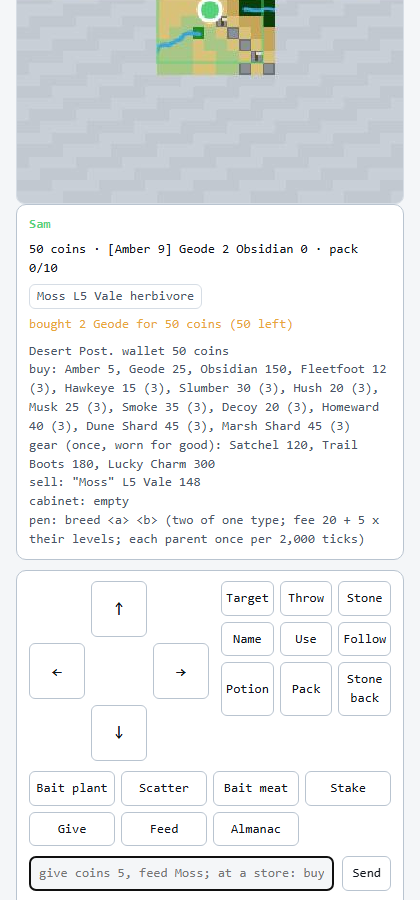
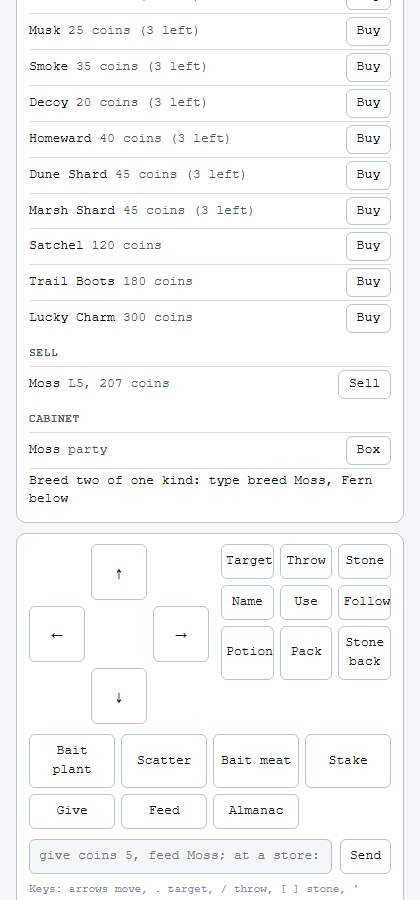
Ketch'em the guest's screen: the three sounds for what the guest sees, and a store of buttons
The synthesis moves to src/ketchem/synth.js (no imports), which the guest link serves; the host queues the remote
guest's sounds each tick with a per-page epoch; the guest page draws the store as rows of Buy / Sell / Box / Take.

diff --git a/src/main.js b/src/main.js
@@ -28,7 +28,7 @@ import { drawKetchemGround, drawFog, drawPlayers } from './ketchem/render.js';
 import { isRevealed } from './ketchem/fog.js';
 import { newPlayer, tryStep, strideStep, interact } from './ketchem/controls.js';
 import { initEncounters, initPlayer, encounterTick, targetsNear, throwStone, placeBait, pickPlant, nameCatch, freeName, freeSpeciesName, follow, recall, drainNews, news as pushNews } from './ketchem/encounter.js';
-import { initStores, marketTick, storeAt, shopLists, shopText, creatureCard, buy as buyItem, sell as sellItem, box as boxItem, giveSaid, usePotion, almanacLists, almanacText, packSummary, POTIONS } from './ketchem/market.js';
+import { initStores, marketTick, storeAt, shopLists, creatureCard, buy as buyItem, sell as sellItem, box as boxItem, giveSaid, usePotion, almanacLists, almanacText, packSummary, POTIONS } from './ketchem/market.js';
 import { storePanel, almanacPanel, closePanel, panelOpen, panelMode } from './ketchem/panel.js';
 import { hudTick } from './ketchem/hud.js';
 import { ask, asking, closeAsk, askWho, answerAsk } from './ketchem/ask.js';
@@ -36,7 +36,7 @@ import { padPressed, padEdges, padKey, padArrowUp, PAD_PICK, START as PAD_START 
 import { guestSeated, seatName, seatGuest, unseatGuest } from './ketchem/guest.js';
 import { linkAvailable, linkOpen, openLink, closeLink, askRemote, dropQuestions, guestAddress, linkCode as linkCodeNow } from './ketchem/link.js';
 import { setRemoteOk } from './ketchem/hud.js';
-import { toggleSound } from './ketchem/sound.js';
+import { toggleSound, soundsDue } from './ketchem/sound.js';
 import { growthTick, catchXP, feedSaid, eventsText, breed as breedPair } from './ketchem/growth.js';
 import { drawEncounters } from './ketchem/render.js';
 import { buildSave, applySave, exportSave, importSave, putSlot, getSlot, deleteSlot, listSlots, addToRecordCabinet, SAVE_VERSION } from './ketchem/save.js';
@@ -980,7 +980,7 @@ function padDown(i,fromLink){   // fromLink: the press came from a pad on the gu
 window.addEventListener('gamepadconnected',function(){if(!_padTimer)_padTimer=setInterval(padTick,50);});
 
 // ===== The guest link (mechanics 26): what a guest on another screen sees, and what their input does =====
-var _guestRemote=false,_linkFrame=null;
+var _guestRemote=false,_linkFrame=null,_gSoundDone=new WeakSet(),_gSounds=[],_gSoundId=0,_gSoundEpoch=Math.random().toString(36).slice(2,10);   // the remote guest's sounds: each effect once, numbered so their page plays only new ones; the epoch names this page, so a reload never confuses the numbers
 function guestFrame(){   // their corner of the world: 33 x 33 tiles around them, from the drawn canvas (fog and all)
   if(!guestSeated(K))return null;var g=K.root,R=16,side=2*R+1;
   if(!_linkFrame)_linkFrame=document.createElement('canvas');var c=_linkFrame;c.width=c.height=400;var x=c.getContext('2d');
@@ -991,7 +991,23 @@ function guestFrame(){   // their corner of the world: 33 x 33 tiles around them
 function guestState(){
   if(!guestSeated(K))return {name:null};var g=K.root,ps=packSummary(g);
   return {name:g.display,wallet:g.wallet,stones:g.stones,stone:g.stone,pack:ps.used+'/'+ps.cap,party:g.party.map(function(c){var k=creatureCard(c);return k.name+' L'+k.level+' '+k.elemental+' '+k.type;}),
-    msg:g.msg&&g.msgUntil>Date.now()?g.msg:'',shop:storeAt(K,g)?shopText(K,g):'',almanac:_gAlmanac?almanacText(K,g):''};
+    msg:g.msg&&g.msgUntil>Date.now()?g.msg:'',store:guestStore(g),sounds:_gSounds,soundEpoch:_gSoundEpoch,almanac:_gAlmanac?almanacText(K,g):''};
+}
+// What a guest on another screen hears: the sounds in their sight, checked every tick (a sound's window is a few ticks;
+// the link only posts five times a second), kept as the last eight with rising numbers.
+function queueGuestSounds(){
+  if(!K||!guestSeated(K)||!K.root.remote)return;
+  var due=soundsDue(K,[K.root],_gSoundDone);for(var i=0;i<due.length;i++)_gSounds.push({id:++_gSoundId,name:due[i]});
+  if(_gSounds.length>8)_gSounds.splice(0,_gSounds.length-8);
+}
+// The store as lists for the guest's buttons (each button sends one of the store commands); null off a store.
+function guestStore(g){
+  var s=storeAt(K,g);if(!s)return null;var L=shopLists(K,g,s),mine=g.party.concat(K.cabinet),nm=function(c){var x=mine.find(function(y){return y.id===c.id;});return !!(x&&x.name);};   // an unnamed one gets no button
+  return {name:L.store,wallet:L.wallet,
+    buy:L.buy.map(function(b){return {item:b.item,price:b.price,left:b.left===Infinity?null:b.left,gear:!!b.gear,owned:!!b.owned};}),
+    sell:L.sell.map(function(c){return {name:c.name,named:nm(c),level:c.level,price:c.price,where:c.where};}),
+    plants:L.plants.length,plantsWorth:L.plants.reduce(function(a,x){return a+x.price;},0),
+    party:L.party.map(function(c){return {name:c.name,named:nm(c)};}),box:L.box.map(function(c){return {name:c.name,named:nm(c)};})};
 }
 function guestCommand(text){   // from another screen: give X [n] and feed X[, Y] anywhere; buy X [n], sell X, box X, take X, breed X, Y at a store
   var g=K.root,m=/^(buy|sell|box|take|breed|give|feed)\s+(.+)$/i.exec(String(text||'').trim());
@@ -1574,7 +1590,7 @@ function kevinHeld(){
 }
 function kevinNews(){if(!K)return;var n=drainNews(K,'kevin');if(n.length)kevinSay(n[n.length-1]);}
 function growthNews(){var ev=growthTick(K);for(var i=0;i<ev.length;i++){var e=ev[i],owner=(K.kevin&&K.kevin.party.indexOf(e.creature)>=0)?'kevin':((K.root&&K.root.id)||'root');var line=(e.creature.name||e.creature.type)+(e.kind==='grow'?' reaches growth level '+e.level:' EVOLVED from '+e.from+' into '+e.to+(e.named?'':(owner==='kevin'?': name the species (N)':guestSeated(K)?": name the species (')":': name the species (name)')));if(owner==='kevin')kevinSay(line);else pushNews(K,owner,line);}}
-function loop(){try{if(running){step();if(K){encounterTick(K);marketTick(K);growthNews();kevinNews();if(K.kevin.moved){K.kevin.moved=false;_kCamAt=null;}if(guestSeated(K)){var gn=drainNews(K,K.root.id);if(gn.length)guestSay(gn[gn.length-1]);if(K.root.moved){K.root.moved=false;guestMoved();}}}visitTick();kevinHeld();guestHeld();kevinAutosave();draw();}}catch(e){var err=document.getElementById('err');if(err){err.style.display='block';err.textContent='Loop error: '+e.message+'\n'+(e.stack||'');}running=false;}var delay=Math.max(10,CFG.tickMsBase*(12/Math.max(1,speed)));if(loopTimer)clearTimeout(loopTimer);loopTimer=setTimeout(loop,delay);}
+function loop(){try{if(running){step();if(K){encounterTick(K);marketTick(K);growthNews();kevinNews();if(K.kevin.moved){K.kevin.moved=false;_kCamAt=null;}if(guestSeated(K)){var gn=drainNews(K,K.root.id);if(gn.length)guestSay(gn[gn.length-1]);if(K.root.moved){K.root.moved=false;guestMoved();}}}visitTick();kevinHeld();guestHeld();queueGuestSounds();kevinAutosave();draw();}}catch(e){var err=document.getElementById('err');if(err){err.style.display='block';err.textContent='Loop error: '+e.message+'\n'+(e.stack||'');}running=false;}var delay=Math.max(10,CFG.tickMsBase*(12/Math.max(1,speed)));if(loopTimer)clearTimeout(loopTimer);loopTimer=setTimeout(loop,delay);}
 
 // ===== Tests =====
 function runTests(){

diff --git a/src/ketchem/sound.js b/src/ketchem/sound.js
@@ -1,12 +1,14 @@
 // Ketch'em's three sounds (mechanics 9b: "a single short click, burst and growl sample would be enough"): synthesised
 // with WebAudio, no files. The click is a catch, the burst a stone breaking free, the growl a predator's warning. They
 // follow the effects list the canvas already draws (K.fx), each at the moment the animation shows it, and only for
-// what is in Kevin's sight square. O or the HUD chip turns sound on and off; the choice is kept per browser.
+// what is in the sight square of someone at this screen (Kevin, and a guest at the same keyboard or pad); a guest on
+// another screen hears their own (soundsDue, sent through the link). O or the HUD chip turns sound on and off here.
 // Loads without a window (tests): every entry point is a no-op there.
 import { tick } from '../sim.js';
+import { audio, SOUNDS } from './synth.js';
 
 const KEY = 'ketchem.sound';
-let on = true, ctx = null;
+let on = true;
 try { if (typeof localStorage !== 'undefined' && localStorage.getItem(KEY) === 'off') on = false; } catch { /* storage blocked: default on */ }
 export function soundOn() { return on; }
 export function toggleSound() {
@@ -15,69 +17,51 @@ export function toggleSound() {
   return on;
 }
 
-function audio() {
-  if (typeof window === 'undefined' || !(window.AudioContext || window.webkitAudioContext)) return null;
-  if (!ctx) { try { ctx = new (window.AudioContext || window.webkitAudioContext)(); } catch { return null; } }
-  if (ctx.state === 'suspended') { ctx.resume().catch(() => {}); return null; }   // no gesture yet: skip, rather than queue sounds to play all at once on the first key
-  return ctx;
-}
-const VOL = 0.14;
-function env(c, g, at, peak, len) { g.gain.setValueAtTime(0.0001, at); g.gain.exponentialRampToValueAtTime(peak, at + 0.008); g.gain.exponentialRampToValueAtTime(0.0001, at + len); }
-// A catch: two bright blips, the stone shutting and a sparkle.
-function click(c) {
-  const t = c.currentTime;
-  for (const [f, d] of [[1250, 0], [1900, 0.06]]) {
-    const o = c.createOscillator(), g = c.createGain(); o.type = 'square'; o.frequency.value = f; env(c, g, t + d, VOL * 0.5, 0.06);
-    o.connect(g).connect(c.destination); o.start(t + d); o.stop(t + d + 0.08);
-  }
-}
-// A stone breaking free: a short noise burst falling through a low-pass.
-function burst(c) {
-  const t = c.currentTime, n = Math.floor(c.sampleRate * 0.2), b = c.createBuffer(1, n, c.sampleRate), d = b.getChannelData(0);
-  for (let i = 0; i < n; i++) d[i] = (Math.random() * 2 - 1) * (1 - i / n);
-  const s = c.createBufferSource(), f = c.createBiquadFilter(), g = c.createGain();
-  s.buffer = b; f.type = 'lowpass'; f.frequency.setValueAtTime(2400, t); f.frequency.exponentialRampToValueAtTime(300, t + 0.2); env(c, g, t, VOL, 0.2);
-  s.connect(f).connect(g).connect(c.destination); s.start(t);
-}
-// A predator's warning: a low sawtooth with a slow wobble, under half a second.
-function growl(c) {
-  const t = c.currentTime, o = c.createOscillator(), lfo = c.createOscillator(), lg = c.createGain(), f = c.createBiquadFilter(), g = c.createGain();
-  o.type = 'sawtooth'; o.frequency.setValueAtTime(95, t); o.frequency.linearRampToValueAtTime(75, t + 0.45);
-  lfo.frequency.value = 18; lg.gain.value = 12; lfo.connect(lg).connect(o.frequency);
-  f.type = 'lowpass'; f.frequency.value = 420; env(c, g, t, VOL * 1.2, 0.45);
-  o.connect(f).connect(g).connect(c.destination); o.start(t); lfo.start(t); o.stop(t + 0.5); lfo.stop(t + 0.5);
-}
-export const SOUNDS = { click, burst, growl };
+export { SOUNDS };
 
 // Each effect sounds once (WeakSet), at its moment: a throw's click or burst when the wobbles end (9b), a growl with
 // each warning pulse.
 const done = new WeakSet();
-// Kevin's sight square (controls.js: 4, or 5 under Hawkeye): what he can see, he can hear.
-function inSight(K, x, y) {
-  const p = K.kevin; if (!p || !Number.isFinite(x) || !Number.isFinite(y)) return false;
+// A player's sight square (controls.js: 4, or 5 under Hawkeye): what they can see, they can hear.
+function inSight(K, x, y, p = K.kevin) {
+  if (!p || !Number.isFinite(x) || !Number.isFinite(y)) return false;
   const h = (p.effects || []).some(e => e.potion === 'Hawkeye' && e.until > tick) ? 5 : 4;
   return Math.abs(x - p.x) <= h && Math.abs(y - p.y) <= h;
 }
 // What one effect sounds like at t ticks after it started: 'wait' (not yet), null (silent: done, out of sight, or long
 // past after a load or a pause), or the sound's name. Pure, so the timing is testable.
-export function soundFor(K, e, t) {
+export function soundFor(K, e, t, p = K.kevin) {
   if (e.kind === 'throw') {
     const at = 12 + (e.wobbles || 0) * 10;   // throw 8 + pull-in 4 + the wobbles (9b): the click or the burst
     if (t < at) return 'wait';
-    if (t > at + 12 || !e.to || !inSight(K, e.to.x, e.to.y)) return null;
+    if (t > at + 12 || !e.to || !inSight(K, e.to.x, e.to.y, p)) return null;
     return e.caught ? 'click' : 'burst';
   }
-  if (e.kind === 'pulse') return t > 6 || !inSight(K, e.x, e.y) ? null : 'growl';   // each warning pulse (11.2: a sound plus a small red ripple)
+  if (e.kind === 'pulse') return t > 6 || !inSight(K, e.x, e.y, p) ? null : 'growl';   // each warning pulse (11.2: a sound plus a small red ripple)
   return null;
+}
+// The sounds now due for these listeners, each effect once per done-set: 'wait' keeps an effect for a later look; the
+// first listener who can hear it decides. Pure over K apart from the done-set.
+export function soundsDue(K, listeners, doneSet) {
+  const out = [];
+  if (!K || !K.fx) return out;
+  for (const e of K.fx) {
+    if (doneSet.has(e)) continue;
+    let name = null, wait = false;
+    for (const p of listeners) { const n = soundFor(K, e, tick - e.start, p); if (n === 'wait') { wait = true; break; } if (n) { name = n; break; } }
+    if (wait) continue;
+    doneSet.add(e);
+    if (name) out.push(name);
+  }
+  return out;
+}
+// This screen's listeners: Kevin, and a guest playing here rather than from another screen.
+export function screenListeners(K) {
+  const g = K && K.root && K.root.human && !K.root.away && !K.root.remote ? K.root : null;
+  return [K.kevin, g].filter(Boolean);
 }
 export function soundTick(K) {
   if (!K || !K.fx || !on) return;
   let c = null;
-  for (const e of K.fx) {
-    if (done.has(e)) continue;
-    const name = soundFor(K, e, tick - e.start);
-    if (name === 'wait') continue;
-    done.add(e);
-    if (name && (c = c || audio())) SOUNDS[name](c);
-  }
+  for (const name of soundsDue(K, screenListeners(K), done)) if ((c = c || audio())) SOUNDS[name](c);
 }

diff --git a/src/ketchem/synth.js b/src/ketchem/synth.js
@@ -1,0 +1,39 @@
+// Ketch'em's three sounds as WebAudio synthesis, no files and no imports, so the guest link can serve this module to a
+// guest's page as it is (visit/guest-link.mjs, /synth.js) and both screens sound alike. The click is a catch, the burst
+// a stone breaking free, the growl a predator's warning. Loads without a window (tests): audio() is null there.
+let ctx = null;
+export function audio() {
+  if (typeof window === 'undefined' || !(window.AudioContext || window.webkitAudioContext)) return null;
+  if (!ctx) { try { ctx = new (window.AudioContext || window.webkitAudioContext)(); } catch { return null; } }
+  if (ctx.state === 'suspended') { ctx.resume().catch(() => {}); return null; }   // no gesture yet: skip, rather than queue sounds to play all at once on the first key
+  return ctx;
+}
+const VOL = 0.14;
+function env(c, g, at, peak, len) { g.gain.setValueAtTime(0.0001, at); g.gain.exponentialRampToValueAtTime(peak, at + 0.008); g.gain.exponentialRampToValueAtTime(0.0001, at + len); }
+// A catch: two bright blips, the stone shutting and a sparkle.
+function click(c) {
+  const t = c.currentTime;
+  for (const [f, d] of [[1250, 0], [1900, 0.06]]) {
+    const o = c.createOscillator(), g = c.createGain(); o.type = 'square'; o.frequency.value = f; env(c, g, t + d, VOL * 0.5, 0.06);
+    o.connect(g).connect(c.destination); o.start(t + d); o.stop(t + d + 0.08);
+  }
+}
+// A stone breaking free: a short noise burst falling through a low-pass.
+function burst(c) {
+  const t = c.currentTime, n = Math.floor(c.sampleRate * 0.2), b = c.createBuffer(1, n, c.sampleRate), d = b.getChannelData(0);
+  for (let i = 0; i < n; i++) d[i] = (Math.random() * 2 - 1) * (1 - i / n);
+  const s = c.createBufferSource(), f = c.createBiquadFilter(), g = c.createGain();
+  s.buffer = b; f.type = 'lowpass'; f.frequency.setValueAtTime(2400, t); f.frequency.exponentialRampToValueAtTime(300, t + 0.2); env(c, g, t, VOL, 0.2);
+  s.connect(f).connect(g).connect(c.destination); s.start(t);
+}
+// A predator's warning: a low sawtooth with a slow wobble, under half a second.
+function growl(c) {
+  const t = c.currentTime, o = c.createOscillator(), lfo = c.createOscillator(), lg = c.createGain(), f = c.createBiquadFilter(), g = c.createGain();
+  o.type = 'sawtooth'; o.frequency.setValueAtTime(95, t); o.frequency.linearRampToValueAtTime(75, t + 0.45);
+  lfo.frequency.value = 18; lg.gain.value = 12; lfo.connect(lg).connect(o.frequency);
+  f.type = 'lowpass'; f.frequency.value = 420; env(c, g, t, VOL * 1.2, 0.45);
+  o.connect(f).connect(g).connect(c.destination); o.start(t); lfo.start(t); o.stop(t + 0.5); lfo.stop(t + 0.5);
+}
+export const SOUNDS = { click, burst, growl };
+// Play one by name; a name it does not know, or no audio yet, is silence.
+export function play(name) { const c = Object.hasOwn(SOUNDS, name) ? audio() : null; if (c) SOUNDS[name](c); }

diff --git a/src/ketchem/guest.test.js b/src/ketchem/guest.test.js
@@ -9,6 +9,7 @@ const E = await import('./encounter.js');
 const M = await import('./market.js');
 const Gst = await import('./guest.js');
 const Gr = await import('./growth.js');
+const Snd = await import('./sound.js');
 
 const at = (x, y) => sim.idx(x, y);
 function world() {
@@ -100,6 +101,28 @@ describe('the guest link leaves nothing behind (critic 2026-10-27)', () => {
     const K = world(); Gst.seatGuest(K, false, 'Sam'); K.root.remote = '482913';
     Gst.unseatGuest(K); expect(K.guestStash.remote).toBeUndefined();
     Gst.seatGuest(K, false, 'Sam'); expect(K.root.remote).toBeUndefined();
+  });
+});
+
+describe('what a guest hears (25, 26)', () => {
+  it('a growl in the guest\'s sight sounds for them once, and not for Kevin far away', () => {
+    const K = world(); Gst.seatGuest(K, false, 'Sam'); const g = K.root; g.x = 20; g.y = 20; K.kevin.x = 3; K.kevin.y = 3;
+    K.fx = [{ kind: 'pulse', x: 21, y: 20, start: sim.tick }];
+    expect(Snd.soundsDue(K, [K.kevin], new WeakSet())).toEqual([]);
+    const done = new WeakSet();
+    expect(Snd.soundsDue(K, [g], done)).toEqual(['growl']); expect(Snd.soundsDue(K, [g], done)).toEqual([]);
+  });
+  it('this screen hears for Kevin and a guest playing here, not for a guest on another screen', () => {
+    const K = world(); Gst.seatGuest(K, false, 'Sam');
+    expect(Snd.screenListeners(K)).toEqual([K.kevin, K.root]);
+    K.root.remote = '123456'; expect(Snd.screenListeners(K)).toEqual([K.kevin]);
+  });
+  it('a throw waits for its wobbles before it sounds', () => {
+    const K = world(); Gst.seatGuest(K, false, 'Sam'); const g = K.root; g.x = 20; g.y = 20;
+    K.fx = [{ kind: 'throw', to: { x: 21, y: 20 }, wobbles: 3, caught: true, start: sim.tick }];
+    const done = new WeakSet();
+    expect(Snd.soundsDue(K, [g], done)).toEqual([]);   // still in the air: kept for a later look
+    K.fx[0].start = sim.tick - 42; expect(Snd.soundsDue(K, [g], done)).toEqual(['click']);
   });
 });
 

diff --git a/visit/guest-link.test.js b/visit/guest-link.test.js
@@ -29,6 +29,11 @@ describe('the guest link', () => {
     const js = await r.text(); expect(js).toContain('export function padKey'); expect(js).not.toMatch(/^import /m);
     expect(await (await fetch(guest + '/')).text()).toContain("from '/pad.js'");
   });
+  it('serves the game\'s sounds to the guest page too', async () => {
+    const js = await (await fetch(guest + '/synth.js')).text();
+    expect(js).toContain('export function play'); expect(js).not.toMatch(/^import /m);
+    expect(await (await fetch(guest + '/')).text()).toContain("from '/synth.js'");
+  });
   it('the guest port has no host side', async () => {
     expect((await jpost(guest, '/host/open', { code: '123456' })).status).toBe(404);
   });

diff --git a/docs/04 Handoffs/2026-10-24 Ketch'em build handoff.md b/docs/04 Handoffs/2026-10-24 Ketch'em build handoff.md
@@ -101,6 +101,8 @@ public site, trading between saves.
   Critic (Sonnet): growl missing from oddsOf (fixed), hash contradicted 5.2 (fixed as above), fallbacks for missing maxAge / maxEnergy now mirror visit.js creatureCode, table lookups guarded with Object.hasOwn. For later steps: `oddsOf` answers for a fled creature too; the encounter machine must refuse the throw.
 - 2026-10-24 · step 3 (`src/ketchem/board.js` + `fog.js` + `render.js` + `board.worker.js`, two `drawWorld` hooks, `?ketchem=` boot path and `window.__wb.ketchem` in main.js, `scripts/ketchem-boards.mjs`; sim: `landCoverage` cached per genesis loop and `computeAridity` / `computeWaterDist` on index queues, byte-identical by fingerprint and by the harness; `seedLifeAt` and Root's `plant` refuse road tiles; flora cleared off roads and around stores at build) · gate GREEN (typecheck, lint 0 errors, full suite incl. 16 board tests, build) · harness = C2 baseline exactly · budget: continent mean 13.2 s / worst 19.3 s (10 seeds), archipelago at 45-60% land mean 11.4 s / worst 23.5 s under load (20 seeds, **9 island-store boards** by the sea-only metric), highlands mean 14.7 s (10 seeds; standalone 95% land 17-19 s): live generation, no pre-baked boards · **changed default for the owner: Archipelago land 45-60%, not 60-75%** (mechanics 15.1 note) · screenshots in `docs/04 Handoffs/img/2026-10-24-ketchem-step3/` · commit: see git log
   Spec readings recorded in the mechanics file (14.3-14.6, 15.1, 15.2, 16). Caught by the tests before shipping: a per-branch signpost search leaked diagonally into the next branch (8-connected roads), and a store revealed by the road rule counted as a road sighting for the next store, cascading reveals across the map. Open for step 4: the Hand is still on under fog; the fog is shared but nothing moves yet; store names are `<Biome> <Post>` with Post rotating by store index; signposts at a doorstep with only spurs beyond read empty (tooltip says "no stores this way").
+- 2026-10-27 · the guest's screen: sound and a store of buttons (mechanics 26; `src/ketchem/synth.js`) · gate GREEN (288/288, lint 0 errors, build) · rehearse15 37/37, rehearse16 21/21, rehearse14 35/35, adversary 0, fuzz seed 211 clean · not deployed · commit: see git log
+  Critic (Sonnet), 0 blockers + 6 risks (sounds at speed, stale sounds, lost taps, look-alike buttons, touch audio, dead state), all taken.
 - 2026-10-27 · saves, the rest of 18.2 (Root's save / save as, autosave when Root leaves, the mirror delete, never-overwrite naming) · gate GREEN (284/284, lint 0 errors, build) · rehearse17 11/11 on a scratch relay · not deployed · commit: see git log
   Critic (Sonnet), 0 blockers + 2 risks (rename before a failed write; case-blind, browser-only uniqueness vs Windows mirror files) + nits, all taken.
 - 2026-10-27 · the gamepad finished (a pad on the guest's own screen through the link, species names and every potion from a pad; mechanics 25.1, 26) · gate GREEN (284/284, lint 0 errors, build) · rehearse15 31/31, rehearse16 21/21, rehearse14 35/35, adversary 0, fuzz seed 197 clean · not deployed · commit: see git log

diff --git a/docs/02 Code/CodeMap.md b/docs/02 Code/CodeMap.md
@@ -2,6 +2,8 @@
 
 > 2026-10-25: Ketch'em step 9, the pen. In `growth.js`: `breedFee`, `offspringGenome` (midpoints with drift from `K.rng`, means, one parent's colour, vivid odds, gen + 1, the first parent's lineage), `breed(K, p, aName, bName)` (store tile, one kind, cooldown `bredAt`, the fee, `makeFauna` with the genome, into the cabinet, `p.naming`, the `bred` variant, a `bred` effect). `market.js` `shopLists` adds `pen` and `fee`; `panel.js` has the PEN tab (two checkboxes, the fee, Breed). `main.js` `acts.breed`; `src/visit.js` `breed` verb; `visit/modes.mjs` lists it. Test in `growth.test.js`.
 
+> 2026-10-27: Ketch'em the guest's screen (mechanics 26). `src/ketchem/synth.js` (no imports): `audio`, `SOUNDS`, `play(name)`. `sound.js`: imports synth; `soundFor(K, e, t, p)`, `soundsDue(K, listeners, doneSet)`, `screenListeners(K)` (Kevin + a guest at this screen); `soundTick` uses both. `main.js`: `queueGuestSounds()` each loop tick (remote guest, own WeakSet, last eight numbered), `_gSoundEpoch`; `guestState` sends `store: guestStore(g)` (lists with `named`), `sounds`, `soundEpoch` (the shop text is gone). `visit/guest-link.mjs`: serves `/synth.js`; the page's `#snd` switch, `hearSounds(state)` / `resetSounds`, `drawStore` (rows keyed by label / button / command, numbers updated in place). Tests `guest.test.js` +3, `guest-link.test.js` +1.
+
 > 2026-10-27: Ketch'em saves, the rest of 18.2. `visit/modes.mjs`: the ketchem `save` tool (`as`); `visit/briefs/ketchem.md` a saves line. `src/visit.js`: case 'save' -> `hooks.ketchem.save(as)`; `depart` saves a named board after a Ketch'em visit; `mirrorSlots()` (GET /page/slots), `mirrorDelete(slot)`. `visit/relay.mjs`: POST /page/save/delete (slotFile-checked, stale-checked). `main.js`: `rootSave(as)` (refuses an unnamed plain save, a taken name, a save in flight; restores the name on a failed write), `slotTaken(n, mine)` (IndexedDB + mirror, case-blind), `slotName` adds " game" to Windows' reserved names, Kevin's first save checks the name, F9 delete calls `mirrorDelete`. Tests `visit.test.js` +1 expectation; `scripts/rehearsals/rehearse17.mjs`.
 
 > 2026-10-27: Ketch'em the gamepad finished (mechanics 25.1). `pad.js`: `padKey` ctx.page (RB pages the potion list). `encounter.js`: `freeSpeciesName(K, type)`. `main.js`: `potionList(g, pad, page)`, `_gPotionPage`, `padDown(i, fromLink)` (a pad on the guest's own screen arrives as keys `pad<N>` through `linkHooks.input`; this machine's pad drives only a local guest), `padLetGo`; two-digit potions only with `pad:true`. `visit/guest-link.mjs` now reads `src/ketchem/pad.js` at start and serves it at `/pad.js` (public, before the code check); the page's module script polls its own pad, A / B answer its question box; `flush` drops events after a 403 / 429. Tests `pad.test.js` +1, `guest.test.js` +1, `guest-link.test.js` +1; rehearse15 and rehearse16 extended.

diff --git a/STATUS.md b/STATUS.md
@@ -2,6 +2,13 @@
 
 _Current truth. Overwritten each checkpoint. The newest handoff in `docs/04 Handoffs/` has the narrative._
 
+## Session 2026-10-27 (r) - Ketch'em the guest's screen: sound and a store of buttons - DONE, GATE GREEN
+Owner ask: "keep building". Mechanics 26's own "not built" list: sound on the guest's screen and the store panel for a remote guest. **Not deployed**; nothing pushed.
+
+What the game does now: a guest on another screen hears the catch click, the break-free burst and the growl for what is in their own sight, with a sound switch on their bar; on a store they tap Buy, Sell, Sell all, Box and Take instead of typing. The shared screen now sounds for a guest playing at it too, not only for Kevin.
+
+Gate: typecheck clean, lint 0 errors (31 warnings, baseline), 288/288 (guest.test.js +3 for who hears what, guest-link.test.js +1 for `/synth.js`), build green. The sounds moved to `src/ketchem/synth.js` (no imports) so the link serves the same synthesis. Critic (Sonnet): 0 blockers, 6 risks; taken: sounds lost at high speed (now queued every tick), old sounds on joining, a rejoin or a host reload (a per-page epoch and resets; a backlog plays only its newest), taps lost to the bar and store redraws (the switch is fixed, rows update their numbers in place), two unnamed creatures sharing one button (no button until named), the audio unlock on touch; the dead shop text no longer sent. Rehearsals: rehearse15 37/37 (Buy, Box and Take by tapping; a growl reaches the guest's screen), rehearse16 21/21, rehearse14 35/35; adversary 0 findings; fuzz seed 211: 0 violations, 0 page errors.
+
 ## Session 2026-10-27 (q) - Ketch'em saves, the rest of 18.2 - DONE, GATE GREEN
 Owner ask: "keep going", "we have lots of tokens to use so keep building". The design's own unbuilt list was the next source: mechanics 18.2's leftovers. **Not deployed**; nothing pushed.
 

diff --git a/scripts/rehearsals/README.md b/scripts/rehearsals/README.md
@@ -13,7 +13,7 @@ as its first argument. They drive the dev server at http://127.0.0.1:5173 with P
 | rehearse14.mjs | a guest at the same keyboard (bait, give, feed, the Almanac, a stake across a seat swap); Call Root refused while seated | scratch relay |
 | rehearse17.mjs | saves: Root's save / save as through the door, never-overwrite naming, autosave when Root leaves, the F9 delete and the mirror (args: screenshots, the scratch relay folder) | scratch relay |
 | rehearse16.mjs | a gamepad for the guest seat (a scripted pad: seat, move, catch, name, bait, give, feed, the Almanac, RB to a fifth potion) | nothing |
-| rehearse15.mjs | a guest on another screen through the guest link (two browsers; bait, give, feed, the Almanac as text, a pad on the guest's screen) | the guest link (the dev server starts it) |
+| rehearse15.mjs | a guest on another screen through the guest link (two browsers; bait, give, feed, the Almanac as text, a pad on the guest's screen, the store's buttons, a sound sent) | the guest link (the dev server starts it) |
 
 Never rehearse against the real visit record. A scratch relay, from PowerShell in the repo:
 
@@ -27,4 +27,4 @@ modules during a run make Vite reload the page under the script.
 
 The guest link (`visit/guest-link.mjs`) usually runs as its own node process, not under Vite: after editing its page,
 stop whatever listens on 7797 and start `node visit/guest-link.mjs` again, or rehearse15 tests the old page. It also
-reads `src/ketchem/pad.js` once at start, so the same goes for an edit to pad.js.
+reads `src/ketchem/pad.js` and `src/ketchem/synth.js` once at start, so the same goes for an edit to either.

diff --git a/docs/01 Design/Ketch'em Mechanics.md b/docs/01 Design/Ketch'em Mechanics.md
@@ -1328,6 +1328,9 @@ between the two pages. Readings, overturnable.
   the dev server from PowerShell with `$env:GUEST_HOST = (tailscale ip -4); npm run dev` (the link it starts binds the
   guest port to this machine's Tailscale address; a link already running must be stopped first). Only devices on the owner's tailnet can reach that address; the host port stays on this machine.
   Kevin's message then shows that address. Without it, the link answers this machine only.
-- Not built: sound on the guest's screen, the full store panel and the Almanac's drawings for a remote guest (the
-  text and the command line stand in), several guests at once. Bait, give, feed and the Almanac were added
+- The guest's screen (added 2026-10-27): the three sounds play there for what is in the guest's sight (the same
+  synthesis, served by the link; a switch on their bar), and on a store tile the store is a panel of rows with Buy,
+  Sell, Sell all, Box and Take buttons (the command line stays for breeding and anything else). An unnamed creature
+  has no button until it is named. The shared screen's own sounds are for Kevin and a guest playing at it.
+- Not built: the Almanac's drawings for a remote guest (its text stands in), several guests at once. Bait, give, feed and the Almanac were added
   2026-10-27; the link's input kinds are unchanged (keys, answers, commands).
